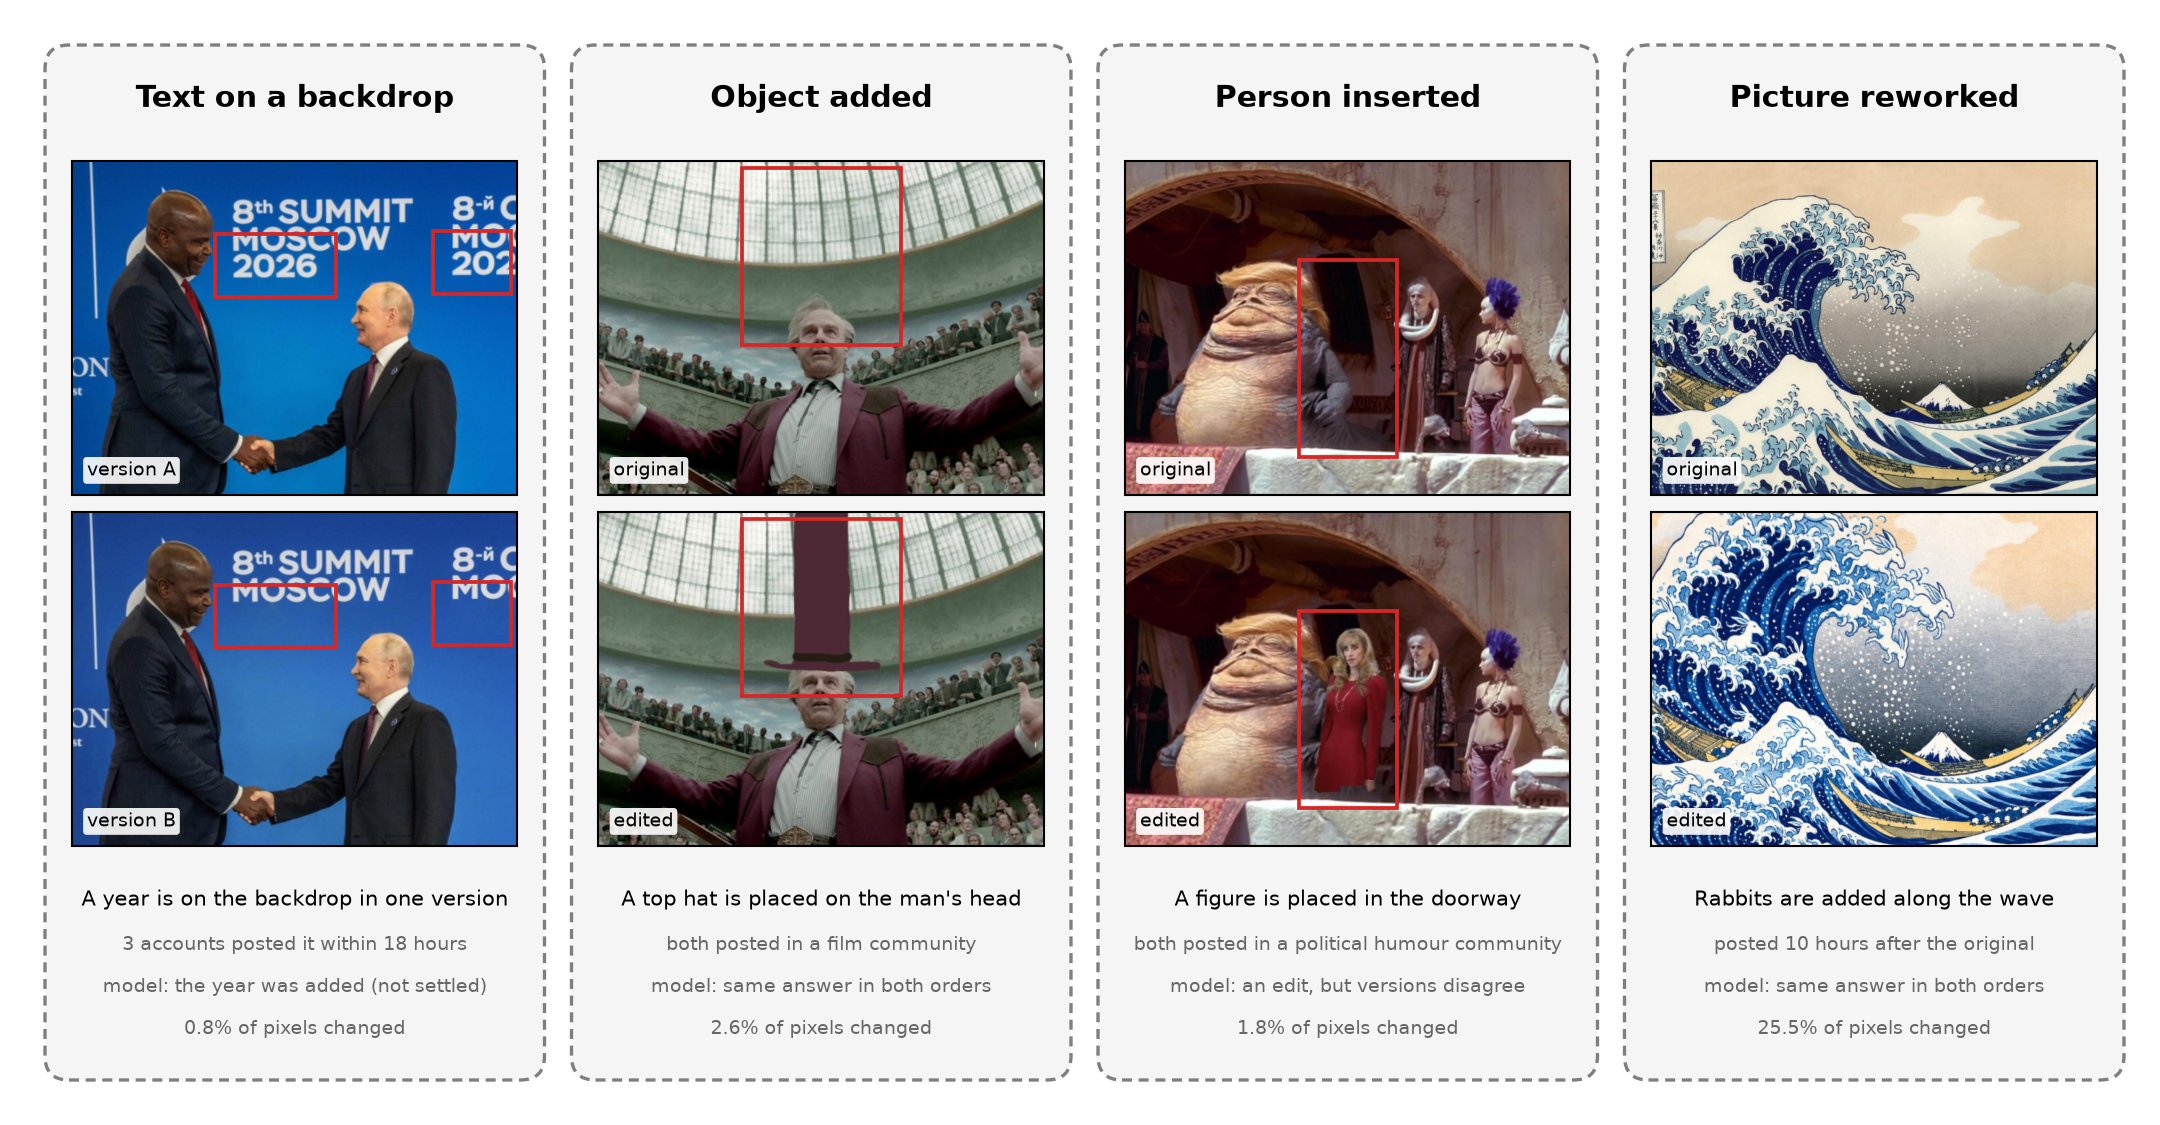
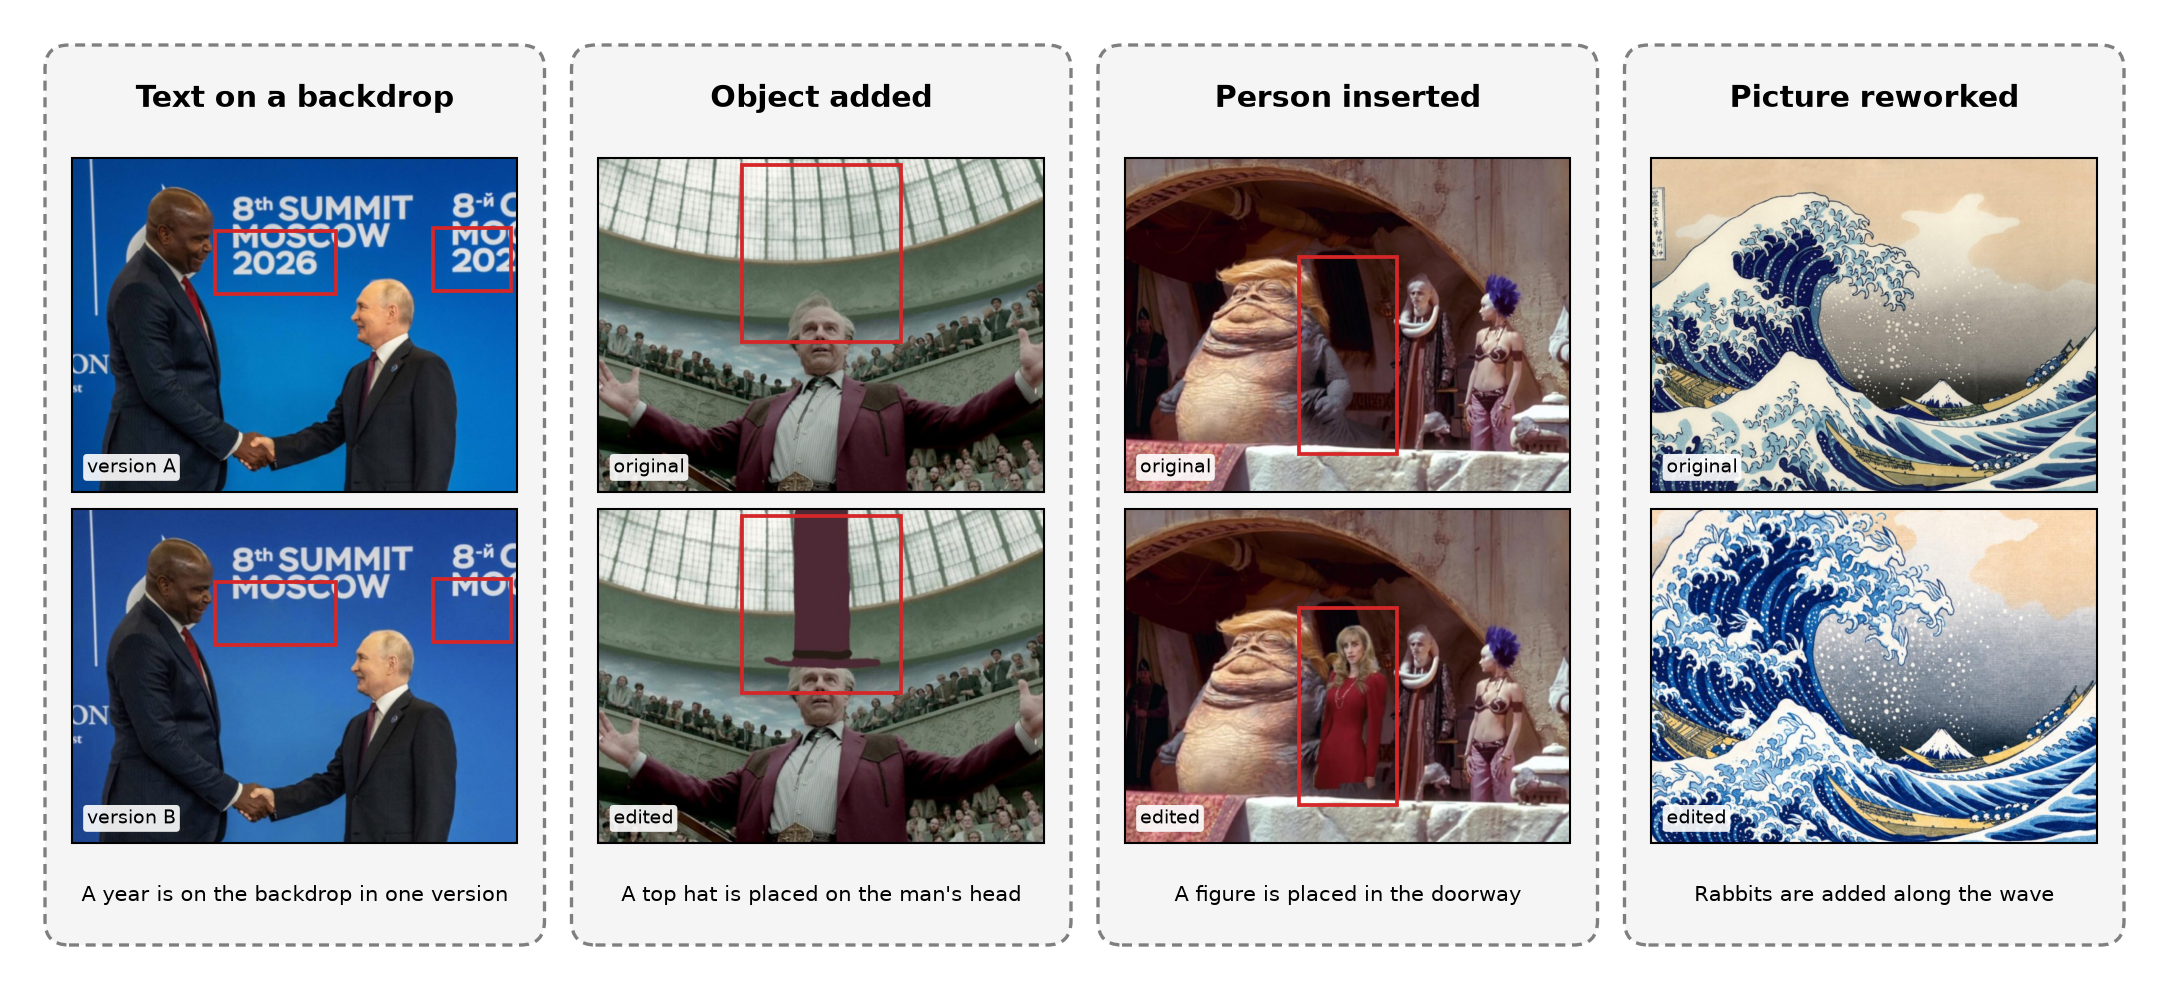
Examples figure: one caption line per pair

diff --git a/docs/make_figures.py b/docs/make_figures.py
@@ -289,29 +289,20 @@ def figure2():
 # Figure 3: four real pairs ------------------------------------------------------------------
 
 def figure3():
-    fig, ax, size = canvas(7.2, 3.75)
-    cols = [("year", "Text on a backdrop", ("version A", "version B"),
-             ["A year is on the backdrop in one version", "3 accounts posted it within 18 hours",
-              "model: the year was added (not settled)", "0.8% of pixels changed"],
+    fig, ax, size = canvas(7.2, 3.3)
+    cols = [("year", "Text on a backdrop", ("version A", "version B"), "A year is on the backdrop in one version",
              [(0.81, 0.21, 0.228, 0.189), (0.32, 0.219, 0.272, 0.187)]),
-            ("hat", "Object added", ("original", "edited"),
-             ["A top hat is placed on the man's head", "both posted in a film community",
-              "model: same answer in both orders", "2.6% of pixels changed"], HAT),
-            ("person", "Person inserted", ("original", "edited"),
-             ["A figure is placed in the doorway", "both posted in a political humour community",
-              "model: an edit, but versions disagree", "1.8% of pixels changed"], [(0.391, 0.296, 0.219, 0.589)]),
-            ("wave", "Picture reworked", ("original", "edited"),
-             ["Rabbits are added along the wave", "posted 10 hours after the original",
-              "model: same answer in both orders", "25.5% of pixels changed"], [])]
+            ("hat", "Object added", ("original", "edited"), "A top hat is placed on the man's head", HAT),
+            ("person", "Person inserted", ("original", "edited"), "A figure is placed in the doorway",
+             [(0.391, 0.296, 0.219, 0.589)]),
+            ("wave", "Picture reworked", ("original", "edited"), "Rabbits are added along the wave", [])]
     w, gap = 33.3, 1.8
-    for k, (name, title, tags, lines, boxes) in enumerate(cols):
+    for k, (name, title, tags, what, boxes) in enumerate(cols):
         x = 3 + k * (w + gap)
-        panel(ax, x, 3, w, 69, title)
+        panel(ax, x, 3, w, 60, title)
         for r, side in enumerate("ab"):
-            picture(ax, f"{name}_{side}.jpg", x + 1.8, 42 - 23.4 * r, w - 3.6, boxes, tags[r])
-        T(ax, x + w / 2, 15, lines[0], size=5.1, ha="center")
-        for i, s in enumerate(lines[1:]):
-            T(ax, x + w / 2, 12 - 2.8 * i, s, size=4.6, color=FINE, ha="center")
+            picture(ax, f"{name}_{side}.jpg", x + 1.8, 33.2 - 23.4 * r, w - 3.6, boxes, tags[r])
+        T(ax, x + w / 2, 6.3, what, size=5.1, ha="center")
     finish(fig, ax, size, "fig3_examples")
 
 
